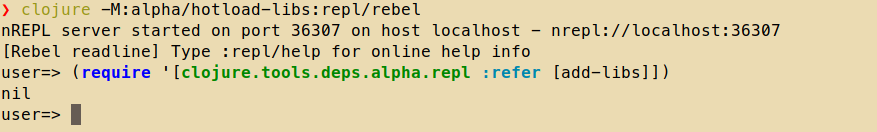
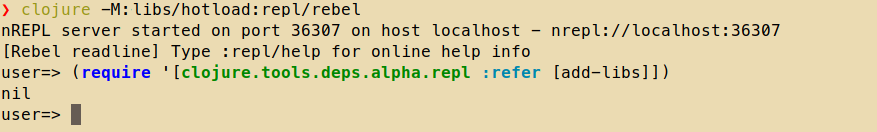
update: change to :lib/hotload alias to include tools.deps.alpha

Changed region(s): [[0.1539, 0.0, 0.4926, 0.1212]]

diff --git a/alternative-tools/clojure-cli/hotload-libraries.md b/alternative-tools/clojure-cli/hotload-libraries.md
@@ -1,30 +1,33 @@
 ![Hotload libraries into a Clojure REPL](https://raw.githubusercontent.com/practicalli/graphic-design/live/clojure/clojure-repl-hotload-libraries.png)
 
 ## Hotload Libraries into a running REPL
+
 Avoid restarting the REPL when using a new library for a project by using the `add-libs` function from `clojure.tools.deps.alpha`.
 
 `add-libs` will "hotload" one or more libraries into a running REPL so that any namespace from those libraries can be required as if the dependency had been added to the project configuration before the REPL started.
 
 [practicalli/clojure-webapp-hotload-libraries](https://github.com/practicalli/clojure-webapp-hotload-libraries) is an example project that uses REPL driven development and hot loading of libraries to build a very simple web server using http-kit and hiccup.
 
-> #### WARNING::WARNING: Not officially supported approach
-> The `add-libs` function is not officially part the Clojure CLI tools.  The code design may change so this approach should be used with caution and not relied upon in your workflow.
+> #### WARNING:: Add-libs is an experimental feature
+> The `add-libs` function is regarded as an experimental feature of Clojure tools.deps.alpha. The add-libs implementation and function signature may change in future.
 
 {% tabs practicalli="practicalli/clojure-deps-edn", manual="Manually add Alias" %}
 
 {% content "practicalli" %}
 
 ## Use alias for tools.deps.alpha dependency
-[Install practicalli/clojure-deps-edn](https://github.com/practicalli/clojure-deps-edn/) which included the `:alpha/hotload-libs` alias which adds the `clojure.tools.deps.alpha.repl` library as an extra dependency.
+
+[Install practicalli/clojure-deps-edn](https://github.com/practicalli/clojure-deps-edn/) which included the `:lib/hotload` alias which adds the `clojure.tools.deps.alpha.repl` library as an extra dependency.
 
 
 {% content "manual" %}
 
 ## Add alias for tools.deps.alpha
-Edit the project `deps.edn` configuration and add an `:alpha/hotload-libs` alias for the `clojure.tools.deps.alpha.repl` library.
+
+Edit the project `deps.edn` configuration and add an `:lib/hotload` alias for the `clojure.tools.deps.alpha.repl` library.
 
 ```clojure
-  :alpha/hotload-libs
+  :lib/hotload
   {:extra-deps {org.clojure/tools.deps.alpha
                {:git/url "https://github.com/clojure/tools.deps.alpha"
                 :sha     "d77476f3d5f624249462e275ae62d26da89f320b"}}}
@@ -36,10 +39,11 @@ Edit the project `deps.edn` configuration and add an `:alpha/hotload-libs` alias
 
 
 ## Hotload libraries in a terminal REPL UI
+
 Start a REPL session using the Clojure CLI tools with the hot-load alias, including rebel readline for an enhance REPL UI.
 
 ```bash
-clojure -M:alpha/hotload-libs:repl/rebel
+clojure -M:lib/hotload:repl/rebel
 ```
 
 The required libraries for the `:hotload-libs` alias are downloaded (if not already available locally in `~/.m2` maven cache on first run).
@@ -98,7 +102,7 @@ The hiccup expression returns a string of the html code.
 Start a REPL in a terminal and use the connect command of the editor to connect the editor to the REPL process.  For example, run a Rebel UI repl in the terminal with the `clojure.tools.deps.alpha` library included
 
 ```bash
-clojure -M:alpha/hotload-libs:repl/rebel-nrepl
+clojure -M:lib/hotload:repl/rebel-nrepl
 ```
 
 Alternatively, use the editors jack-in function to start a REPL process and connect, ensuring that an alias is loading the `clojure.tools.deps.alpha` library.
@@ -109,7 +113,7 @@ Use a rich comment block to hold the code that hot-loads libraries so that code 
 
 ```clojure
 (comment
-  ;; run REPL with :alpha/hotload-libs alias
+  ;; run REPL with :lib/hotload alias
   (require '[clojure.tools.deps.alpha.repl :refer [add-libs]])
 
   ;; hotload the libraries required for the server
